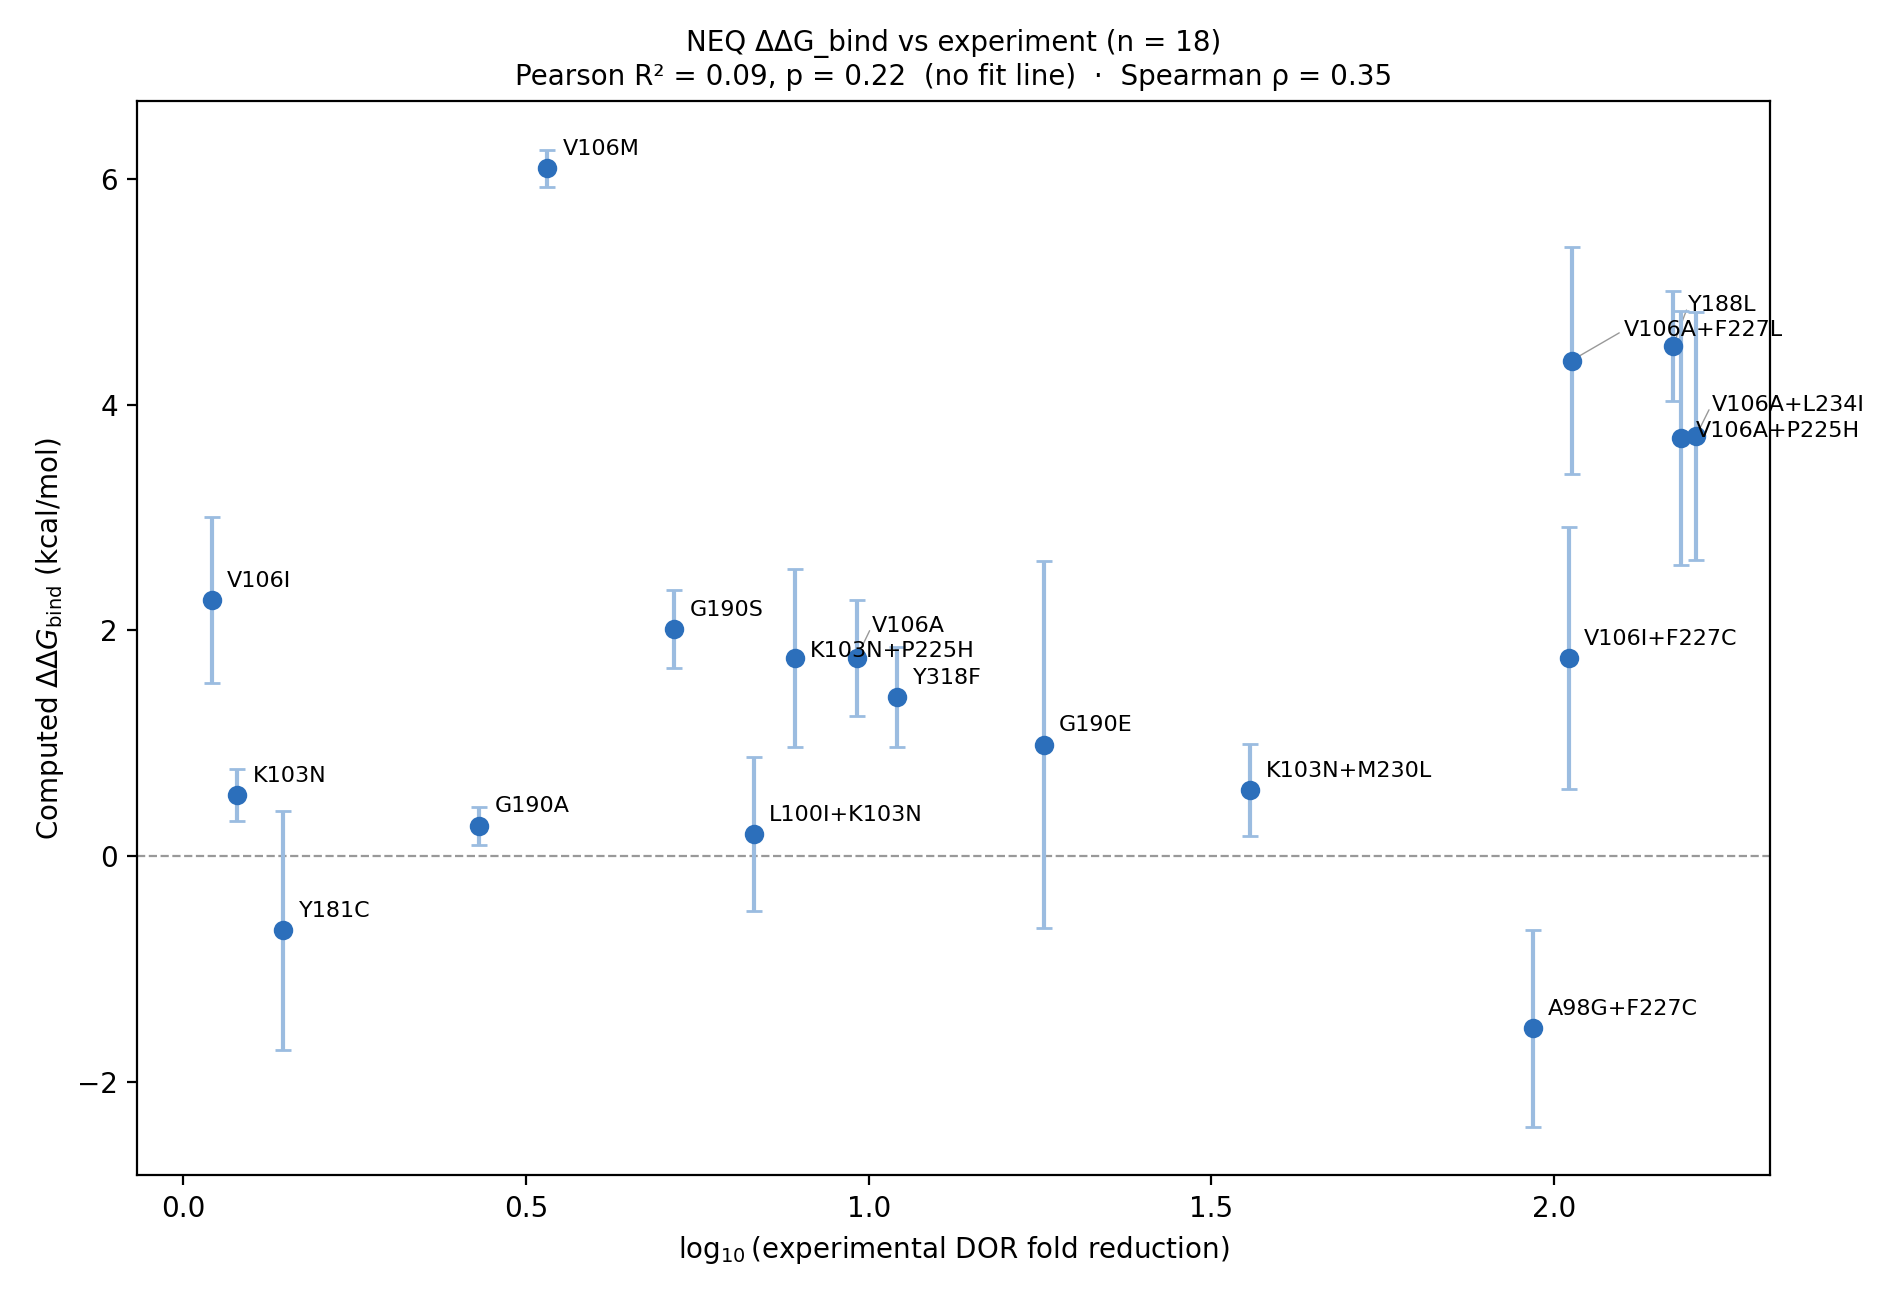
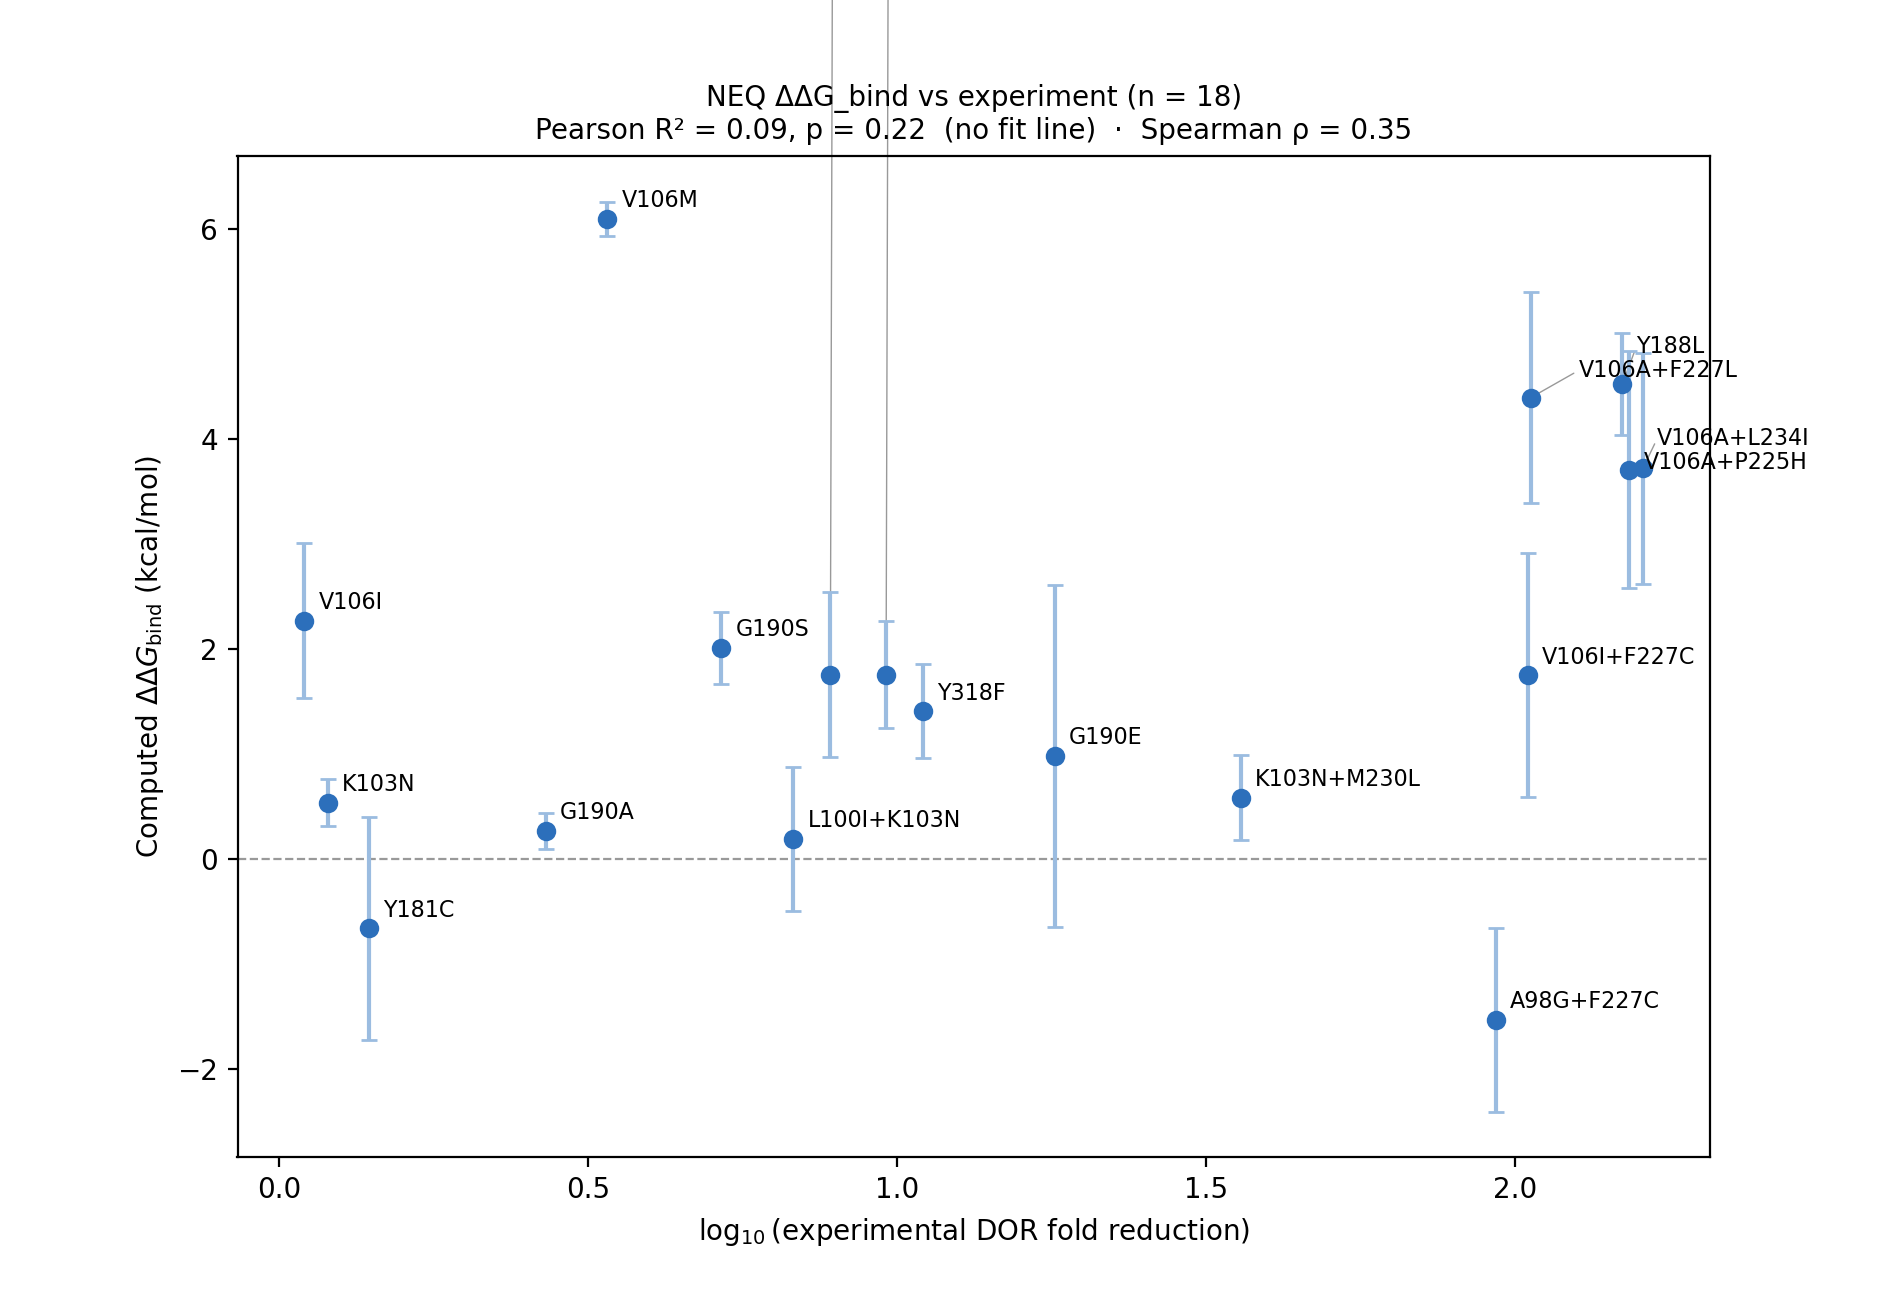
Fold G190E's 20ns-equilibration result into the manuscript tables
ddG_bind = +0.99 +/- 1.63, from +2.00 +/- 1.77. Table 2, Supplementary Table 3
and the discussion tiers rebuilt; classification metrics unchanged since G190E
is an Uncertain-phenotype genotype and is excluded from that analysis.

The campaign is worth reading carefully rather than as a failure. Longer
equilibration did what it was designed to do -- sd(holo-apo hysteresis) fell
7.39 -> 4.52, a 39% improvement in the phase cancellation that governs this
leg -- but sigma_DDG barely moved, 3.06 -> 2.82, because replicates 1 and 3 now
agree to 0.14 kcal/mol (-0.57, -0.71) while replicate 2 sits at +4.24 and
carries the entire variance.

Replicate 2's holo unit is the only one of twelve failing the BAR-Jarzynski
agreement check (-1.20 against within-0.04 everywhere else), which is one of the
pipeline's own stated confidence criteria -- so distrusting it rests on an
independent convergence test rather than on its answer. Re-running that single
unit costs 24 GPU elements against n=8 replicates for SEM<1 by brute force.

diff --git a/manuscript/CHANGES_2026-08-30_final_mmgbsa.md b/manuscript/CHANGES_2026-08-30_final_mmgbsa.md
@@ -151,11 +151,47 @@ Add the **Statistical analysis** subsection from
 
 ---
 
-## 8. Still outstanding
+## 8. G190E — resolved 2026-08-30
 
-- **G190E ∆∆Gbind (2.00 ± 1.77)** — the 20 ns-equilibration campaign was at
-  `SWITCH 14/60` on 2026-08-29 evening. When it lands, Table 2's ΔΔG column and
-  the Discussion sentence about G190E both change.
+The 20 ns-equilibration campaign completed. **∆∆G_bind = +0.99 ± 1.63** (was
++2.00 ± 1.77). Table 2's ∆∆G column is updated; G190E remains "weak impact"
+under the one-SEM-above-0.5 rule, so no category count changes.
+
+Results text: "in case of G190E because of large replicate variance ∆∆Gbind =
+2.00 ± 1.77 kcal/mol" → **0.99 ± 1.63**.
+
+Panel-wide FEP statistics essentially unchanged: Spearman ρ = 0.351,
+R² = 0.092, p = 0.221 (n = 18). The established-phenotype subset (R² = 0.26,
+p = 0.07) is untouched, since G190E is Uncertain.
+
+**What the campaign actually showed.** Longer equilibration worked on its own
+terms but did not fix the error bar:
+
+| | 5 ns equil | 20 ns equil |
+| --- | ---: | ---: |
+| σ_DDG | 3.06 | 2.82 |
+| sd(holo−apo hysteresis) | 7.39 | **4.52** |
+| per-replicate ∆∆G | −0.71 / +1.39 / +5.32 | **−0.57 / +4.24 / −0.71** |
+
+The holo/apo cancellation mechanism improved by 39%, which is what the
+equilibration lever was supposed to do. But σ_DDG barely moved because
+**replicates 1 and 3 now agree to 0.14 kcal/mol while replicate 2 sits 4.9
+kcal/mol away** and carries the whole variance.
+
+Replicate 2's holo unit is the only one of the twelve failing the BAR–Jarzynski
+agreement check (−1.20; every other unit within 0.04) — an independent
+convergence criterion, not a post-hoc exclusion. Re-running that one unit costs
+2 equil + 2 extract + 20 switch elements, against n = 8 replicates for SEM < 1
+by brute force or n = 32 for SEM < 0.5. If it converges near its siblings, G190E
+lands near **−0.6 ± 0.1**, which would flip its sign and make it a genotype
+where binding does not explain the 18-fold resistance at all.
+
+**Tiering:** `OMIT_MAIN_TEXT` in `combine_neq.py` no longer hardcodes K103N.
+Its SEM is 0.23 — the tightest in the panel — and the charge-leg concern lapsed
+with the raw-box + analytical-correction protocol. K103N is now `main_text`;
+G190E is `show` on its SEM alone.
+
+## 9. Still outstanding
 - **JCIM abstract** — must become unstructured (guidelines ask 3–4 sentences;
   the draft is 289 words under four subheadings). Deferred until G190E lands so
   it is written once.
